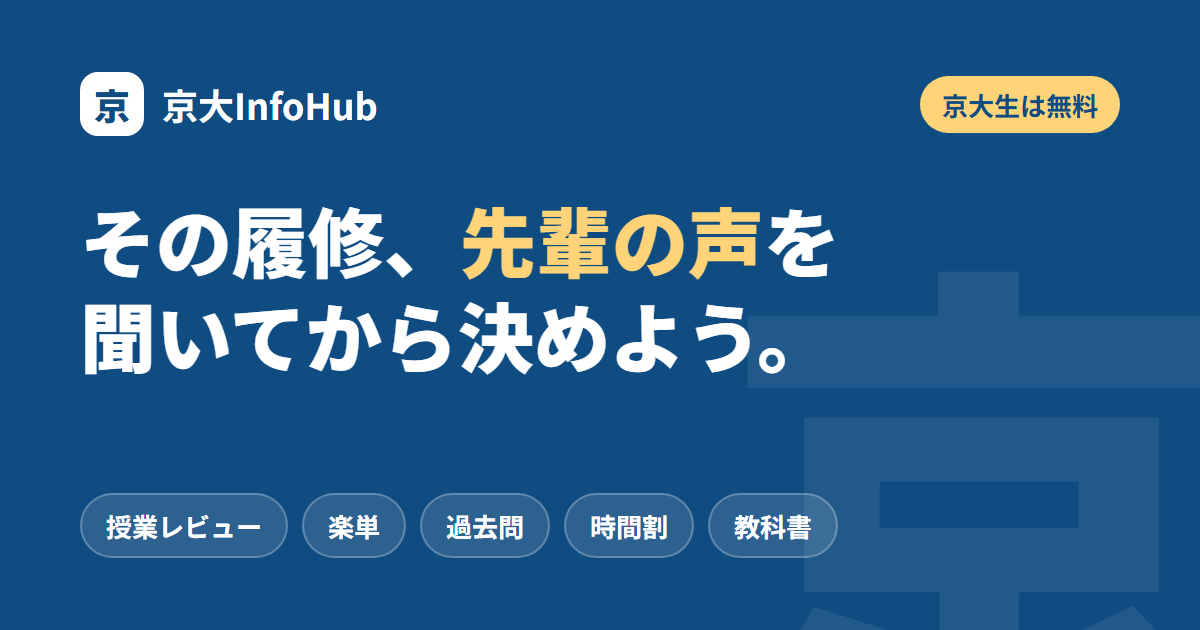
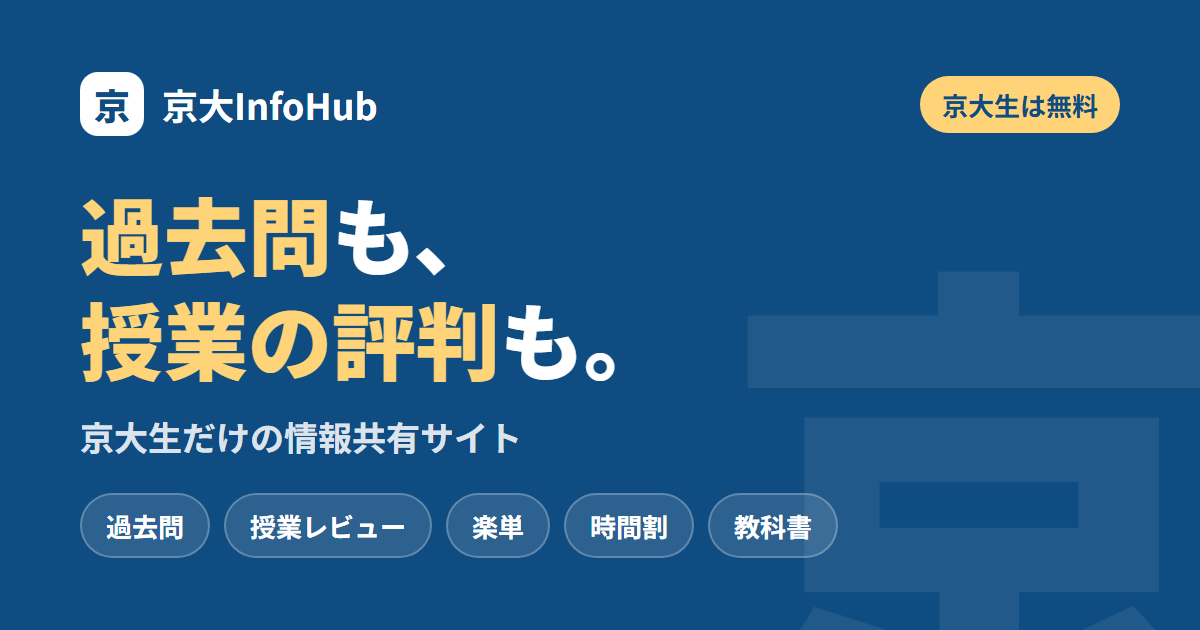
fix(site): link-preview headline leads with past exams and course reputation

diff --git a/marketing/og/og.html b/marketing/og/og.html
@@ -10,7 +10,8 @@
   body { font-family: 'Noto Sans JP', sans-serif; background: #0f4c81; color: #fff; position: relative; padding: 72px 80px; -webkit-font-smoothing: antialiased; }
   .brand { display: flex; align-items: center; gap: 18px; font-size: 36px; font-weight: 700; }
   .mark { width: 64px; height: 64px; border-radius: 18px; background: #fff; color: #0f4c81; display: grid; place-items: center; font-size: 36px; font-weight: 900; }
-  h1 { margin-top: 56px; font-size: 76px; line-height: 1.25; font-weight: 900; }
+  .sub { margin-top: 22px; font-size: 34px; font-weight: 700; opacity: .85; }
+  h1 { margin-top: 44px; font-size: 84px; line-height: 1.25; font-weight: 900; }
   h1 em { font-style: normal; color: #ffd479; }
   .tags { position: absolute; left: 80px; bottom: 72px; display: flex; gap: 14px; }
   .tags span { padding: 12px 24px; border-radius: 999px; background: rgba(255,255,255,.12); border: 2px solid rgba(255,255,255,.25); font-size: 26px; font-weight: 700; }
@@ -22,7 +23,8 @@
   <div class="ghost">京</div>
   <div class="brand"><span class="mark">京</span>京大InfoHub</div>
   <span class="free">京大生は無料</span>
-  <h1>その履修、<em>先輩の声</em>を<br>聞いてから決めよう。</h1>
-  <div class="tags"><span>授業レビュー</span><span>楽単</span><span>過去問</span><span>時間割</span><span>教科書</span></div>
+  <h1><em>過去問</em>も、<br><em>授業の評判</em>も。</h1>
+  <p class="sub">京大生だけの情報共有サイト</p>
+  <div class="tags"><span>過去問</span><span>授業レビュー</span><span>楽単</span><span>時間割</span><span>教科書</span></div>
 </body>
 </html>
